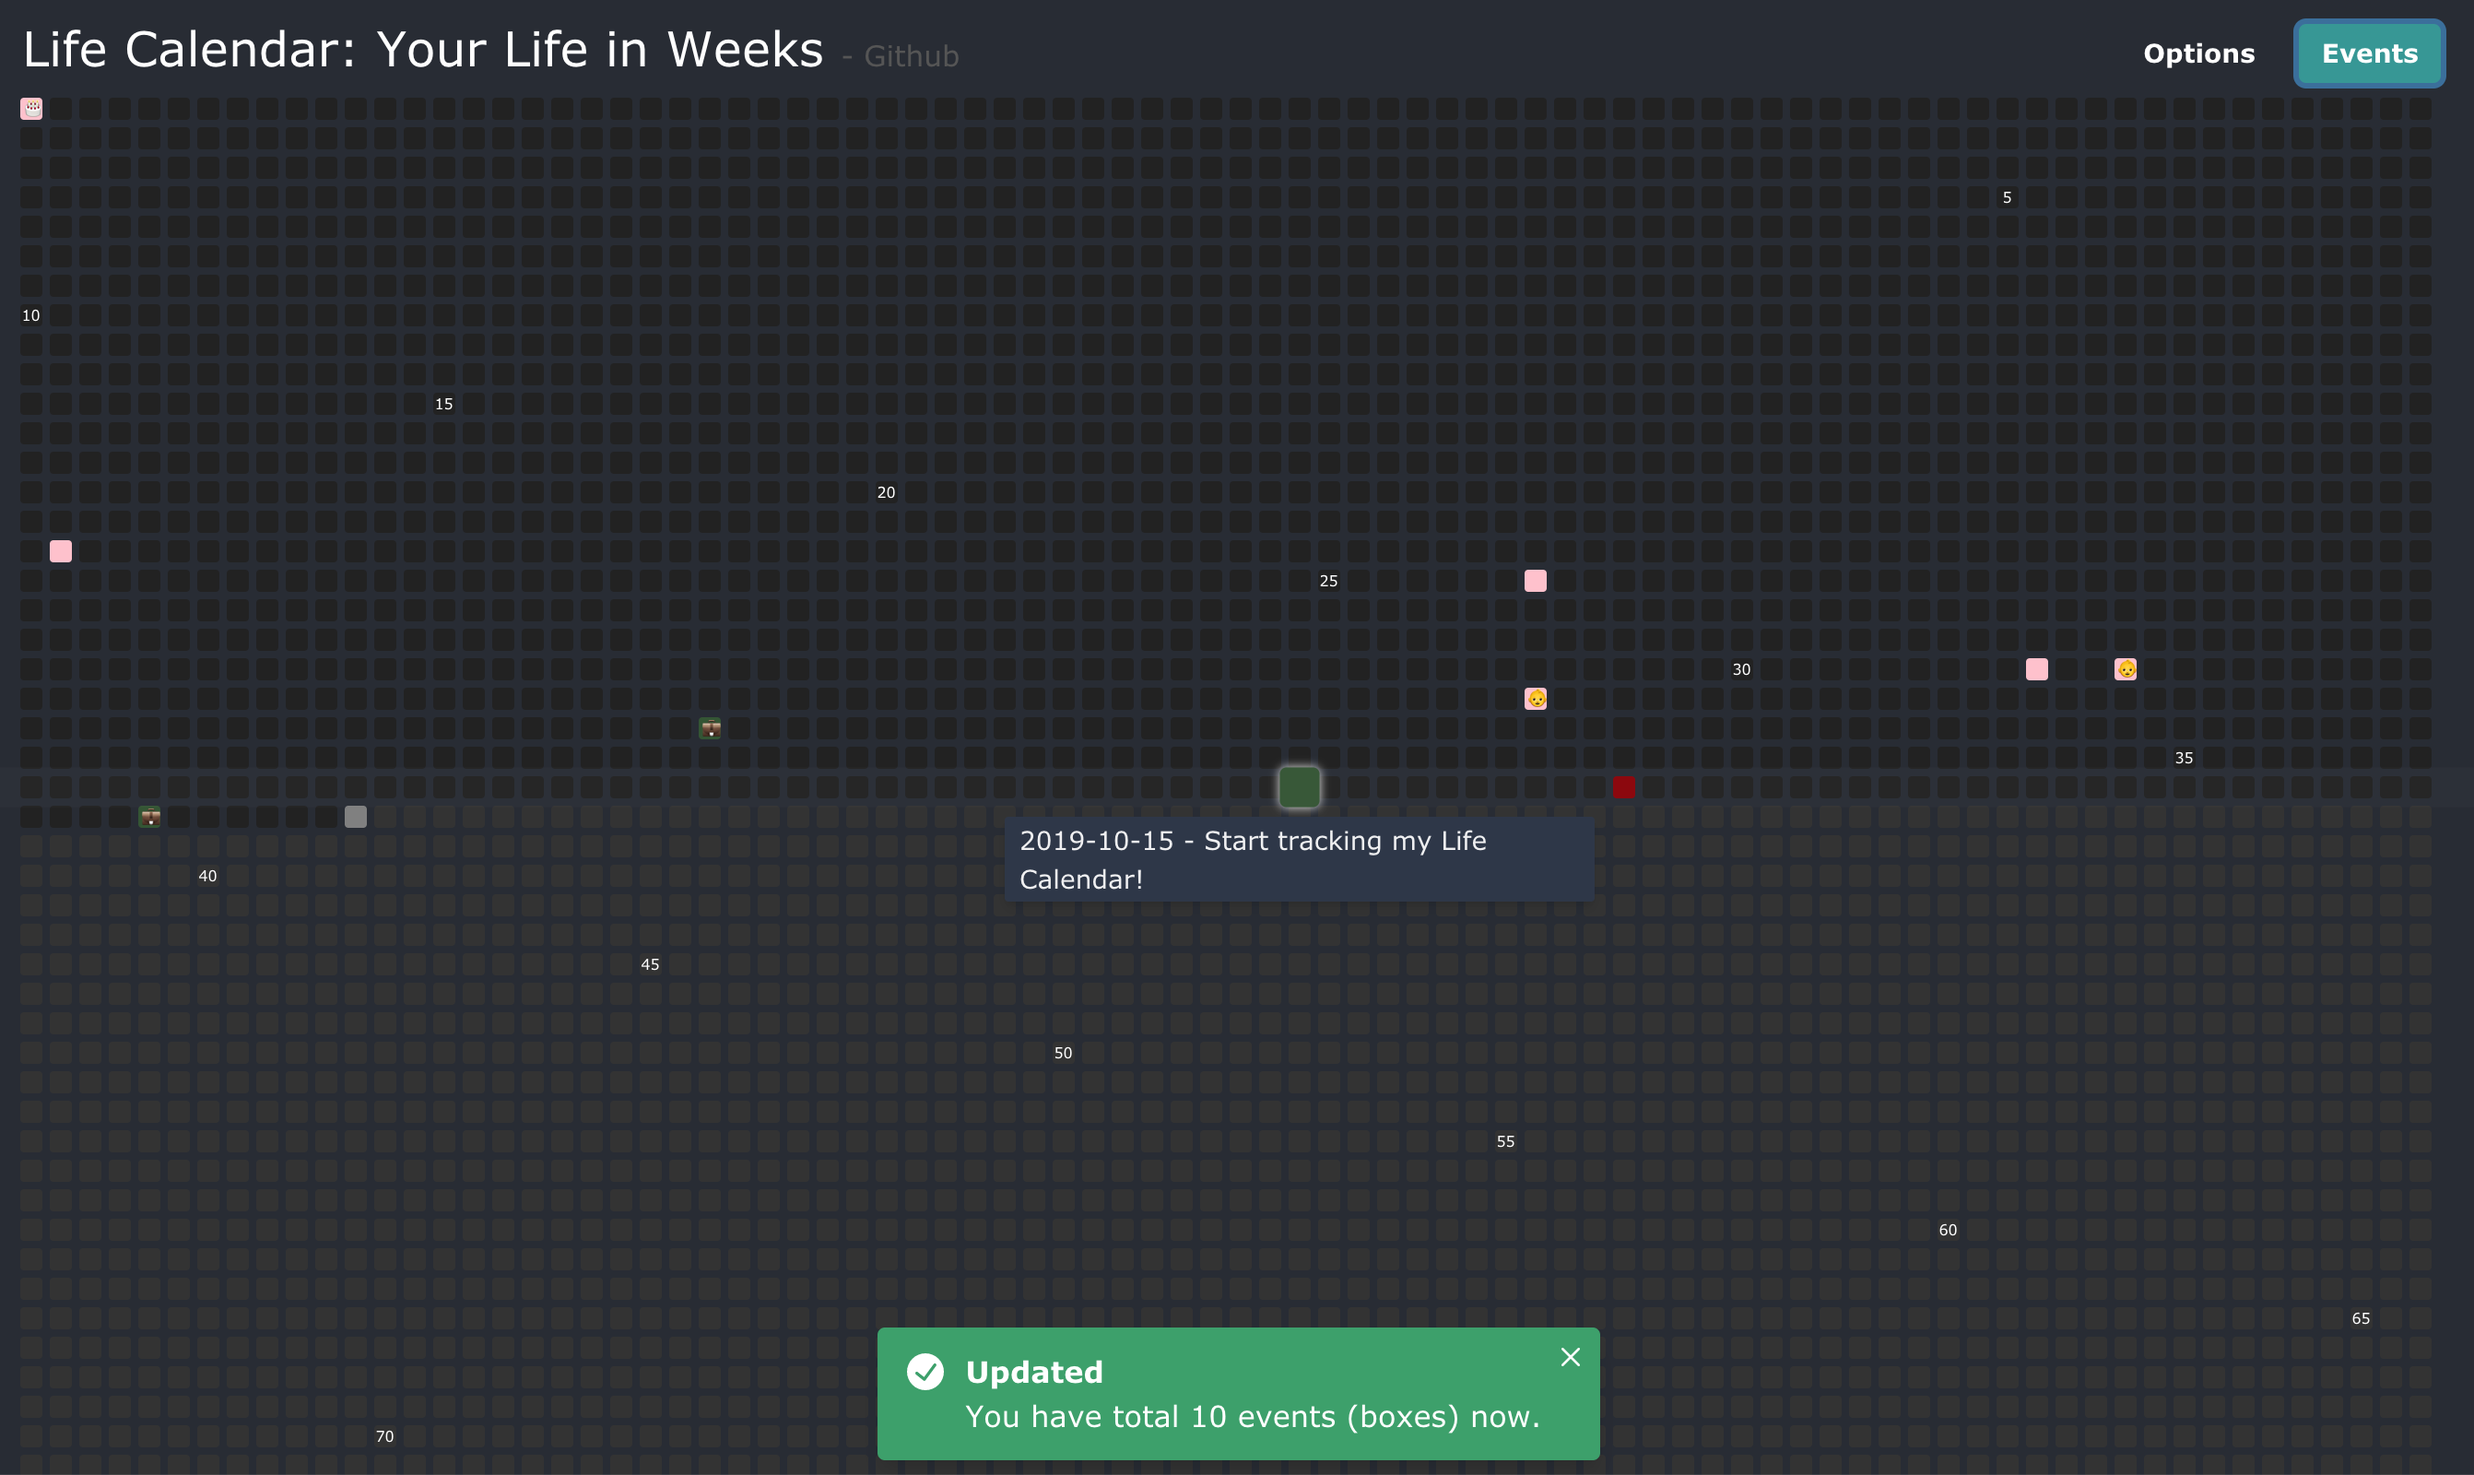
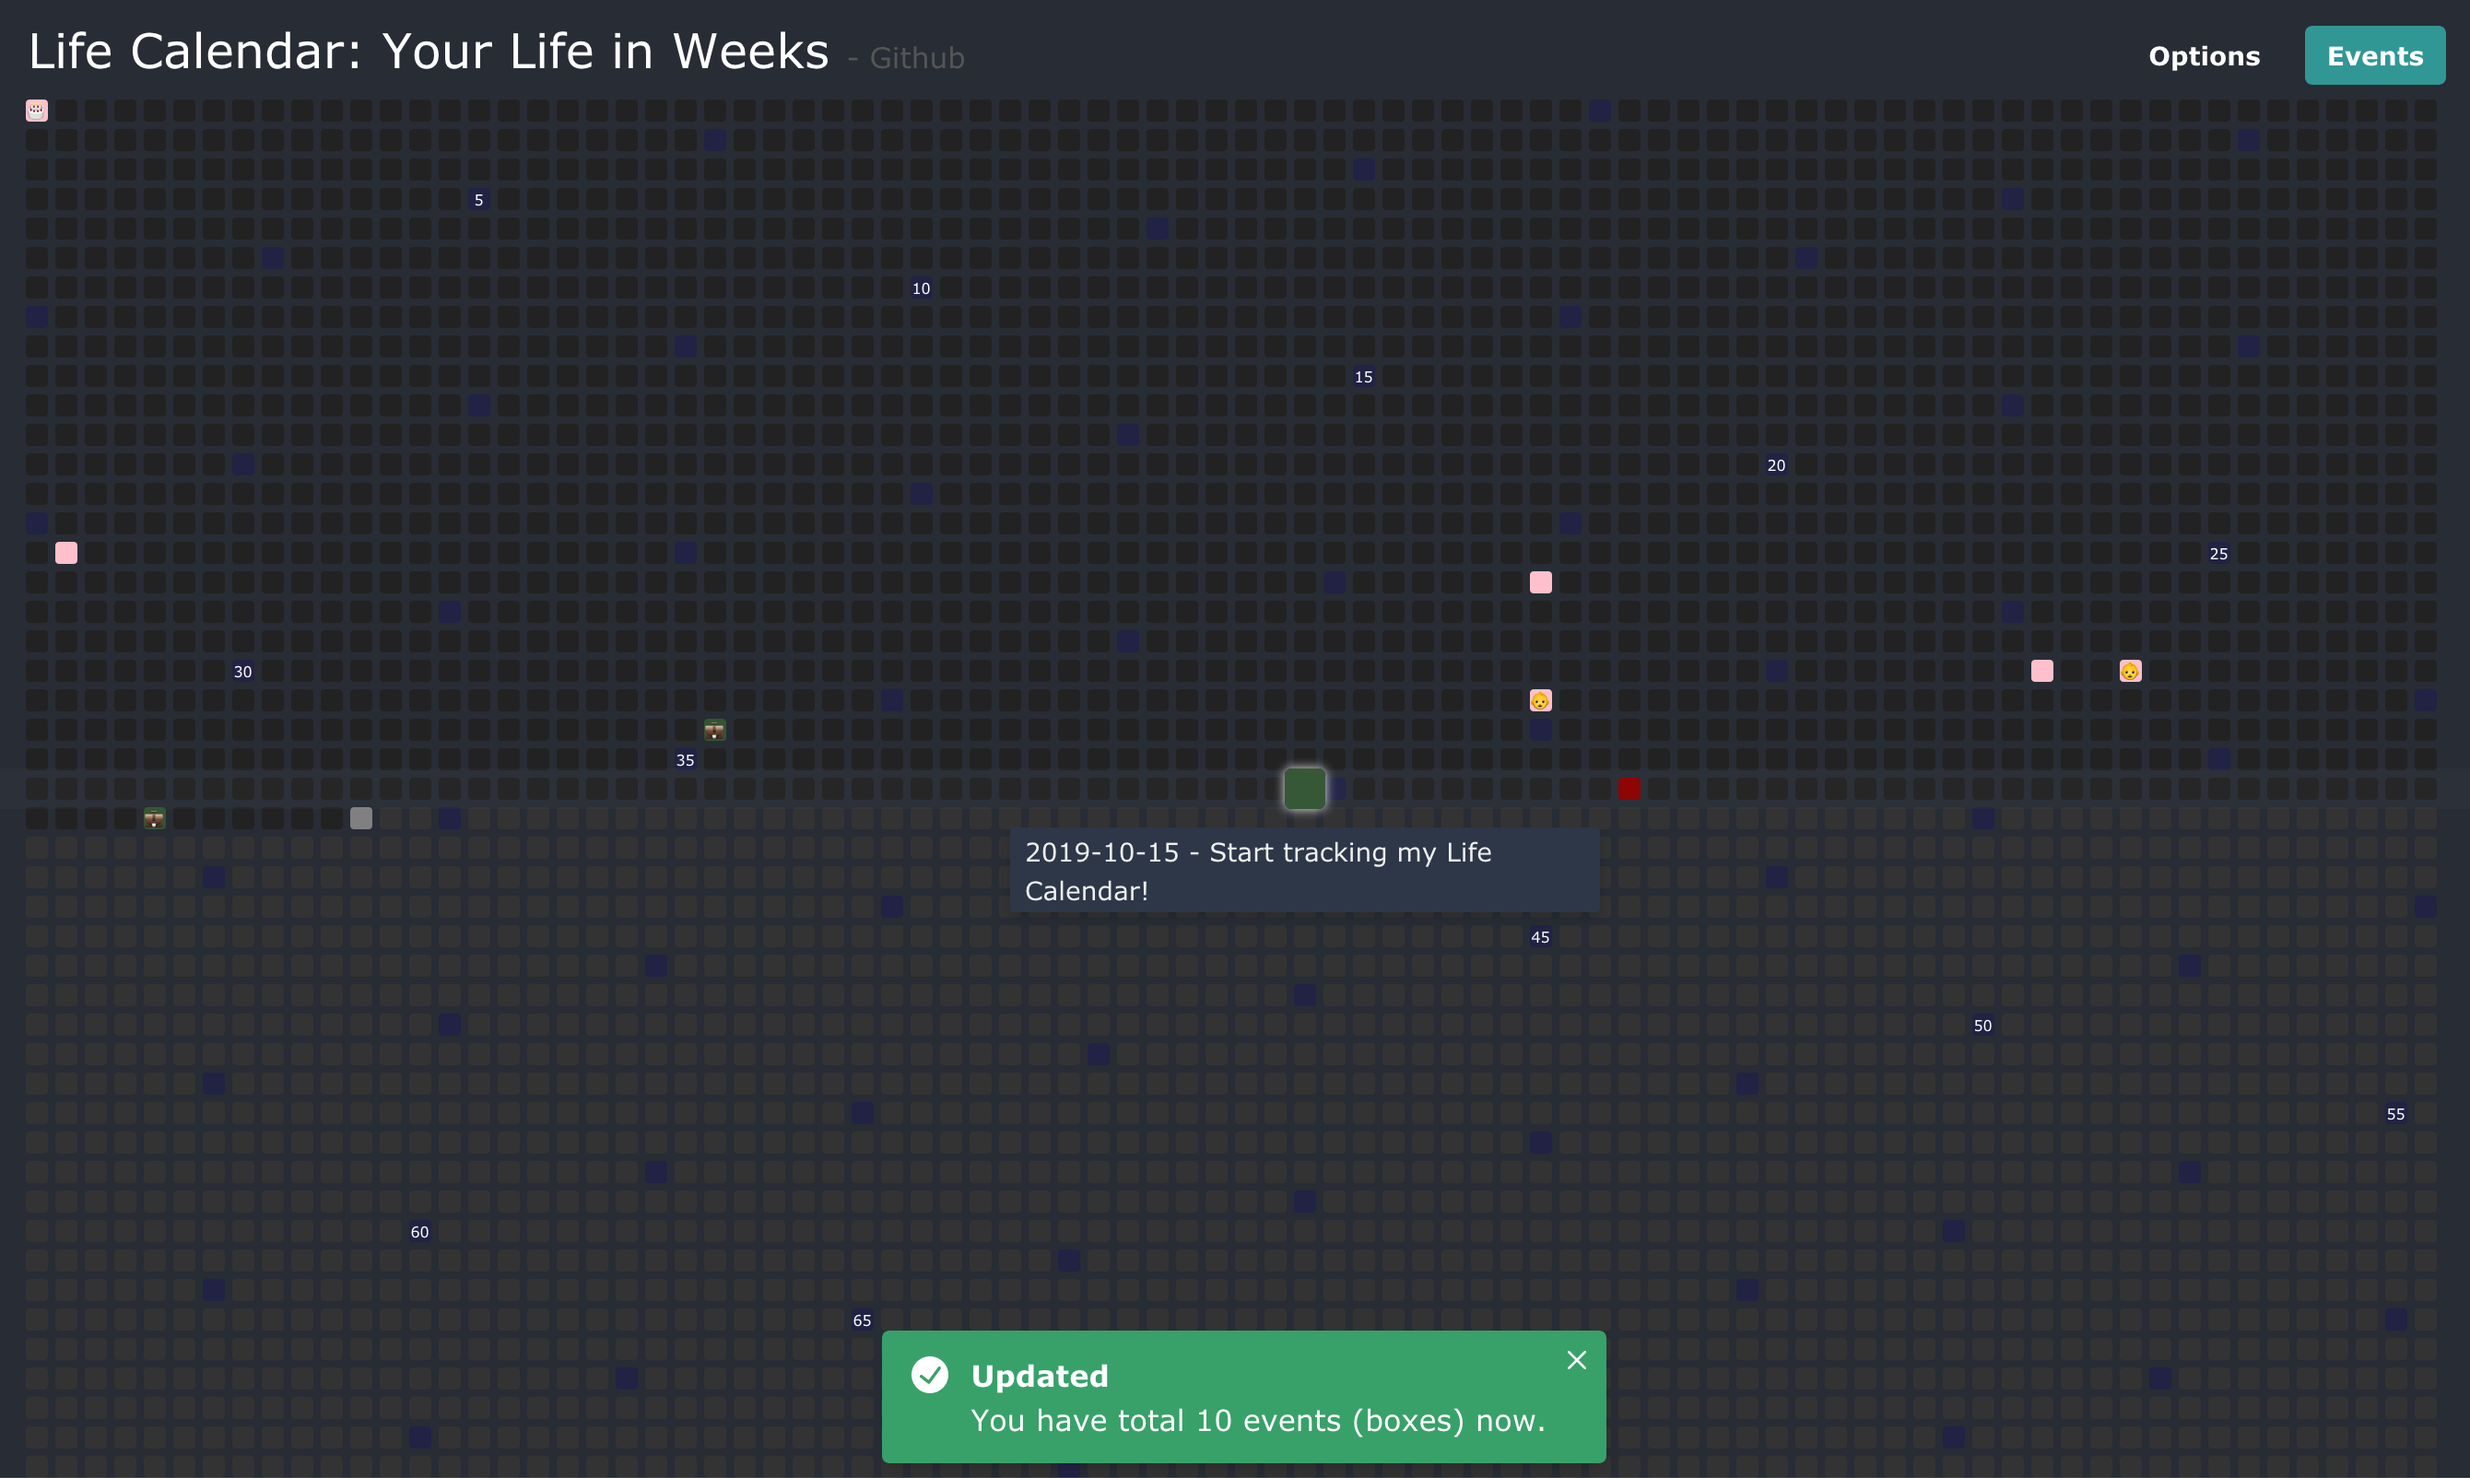
feat: added new layout: one row one year

diff --git a/src/components/WeekTimeline/WeekTimeline.tsx b/src/components/WeekTimeline/WeekTimeline.tsx
@@ -50,8 +50,59 @@ const transformData = (data: any = { events: [] }) => {
   for (let i = 0; i < 90; i += 1) {
     const year = firstYear + i;
     weeks = weeks + (isLeapYear(year) ? 52.28571 : 52.14286);
-    markedWeeks.push(Math.round(weeks)); // TODO: rounding leads to inaccurate box position
+
+    let markedWeek = Math.round(weeks);
+    // adjust for better alignment (because of Math.round and leap years)
+    markedWeek++;
+    if (
+      [
+        4,
+        5,
+        6,
+        11,
+        12,
+        13,
+        18,
+        19,
+        20,
+        25,
+        26,
+        27,
+        32,
+        33,
+        34,
+        39,
+        40,
+        41,
+        46,
+        47,
+        48,
+        53,
+        54,
+        55,
+        60,
+        61,
+        62,
+        67,
+        68,
+        69,
+        74,
+        75,
+        76,
+        81,
+        82,
+        83,
+        88,
+        89,
+        90
+      ].indexOf(i + 1) >= 0
+    ) {
+      markedWeek = markedWeek - 1;
+    }
+    markedWeeks.push(markedWeek); // TODO: rounding leads to inaccurate box position
   }
+  // console.log('markedWeeks', markedWeeks);
+
   return [_data, markedWeeks];
 };
 
@@ -65,76 +116,100 @@ export default function WeekTimeline({ data }: { data: any }) {
   const [_data, markedWeeks] = transformData(data);
 
   const _todayItem = _data && _data.events.length > 0 ? _data.events[_data.events.length - 1] : { _weekNum: 2000 };
-  // console.log('_data', _data);
+  const years = Array.from(Array(90).keys()); // [0, 1, 2, ...] as 90 years
+
+  const renderBoxes = (yearIdx = -1) => {
+    return (
+      <>
+        {dt.map((_, idx) => {
+          if (yearIdx >= 0) {
+            if (idx < yearIdx * 52.143 || idx > yearIdx * 52.143 + 52.143) {
+              return null;
+            }
+          }
+          let bgColor = '#333'; // default
+
+          if (idx < _todayItem._weekNum) {
+            bgColor = '#222'; // passed weeks
+          }
+
+          let yearTooltip = '';
+          const markedWeeksIdx = markedWeeks.indexOf(idx);
+
+          if (state.options.highlightYears) {
+            // bgColor = item % 261 === 0 ? '#335' : bgColor; // highlight every year
+            bgColor = markedWeeksIdx >= 0 ? '#224' : bgColor;
+            yearTooltip = markedWeeksIdx >= 0 ? `${markedWeeksIdx + 1} years old` : yearTooltip;
+          }
+
+          const obj: any = _data.events.find((d: any) => d._weekNum === idx);
+          if (obj) {
+            bgColor = 'gray';
+
+            if (obj.type === -3) {
+              bgColor = 'darkred';
+            } else if (obj.type === -2 || obj.type === -1) {
+              bgColor = 'darkred';
+            } else if (obj.type === 1 || obj.type === 2) {
+              bgColor = '#353';
+            } else if (obj.type === 3) {
+              bgColor = 'pink';
+            }
+          }
+          let boxContent = '';
+          if (state.options.showEveryYears) {
+            // 52.143 * 5 ~ 260.7 ~ 261
+            // boxContent = '' + (item % 261 === 0 ? (item / 261) * 5 : ''); // show year number ever N years
+            boxContent = '' + (markedWeeksIdx > 1 && (markedWeeksIdx + 1) % 5 === 0 ? markedWeeksIdx + 1 : '');
+
+            yearTooltip = boxContent ? `${boxContent} years old` : yearTooltip;
+          }
+
+          // boxContent = obj ? obj.title : boxContent; // item % 52 === 0 ? item / 52 : ''
+          // if first character is Emoji, show it in the box:
+          boxContent = obj && obj.title && obj.title.charCodeAt(0) > 255 ? [...obj.title][0] : boxContent;
+
+          let boxStartTime = +addWeeks(_data.events[0]._date, idx);
+          const boxEl = (
+            <Box
+              key={`box_${yearIdx}_${idx}`}
+              className={css.box}
+              onClick={() => setEventModalOpen(boxStartTime)}
+              rounded={2}
+              w={3}
+              h={3}
+              style={{ backgroundColor: bgColor, fontSize: 8, cursor: 'default' }}
+            >
+              {boxContent}
+            </Box>
+          );
+
+          if ((obj && obj.title) || yearTooltip) {
+            const tooltipLabel = obj && obj.title ? `${obj.date} - ${obj.title}` : yearTooltip;
+            return (
+              <Tooltip key={`tt_${idx}`} label={tooltipLabel}>
+                {boxEl}
+              </Tooltip>
+            );
+          } else {
+            return boxEl;
+          }
+        })}
+      </>
+    );
+  };
   return (
     <Flex key={mainKey} gridGap={1} width="95vw" flexWrap="wrap">
-      {dt.map((item, idx) => {
-        let bgColor = '#333'; // default
+      {state.options.oneRowOneYear === true
+        ? years.map((_, yearIdx) => {
+            return (
+              <Flex key={`flex_${yearIdx}`} gridGap={1} width="95vw" flexWrap="wrap">
+                {renderBoxes(yearIdx)}
+              </Flex>
+            );
+          })
+        : renderBoxes()}
 
-        if (idx < _todayItem._weekNum) {
-          bgColor = '#222'; // passed weeks
-        }
-
-        let yearTooltip = '';
-        const markedWeeksIdx = markedWeeks.indexOf(idx);
-        if (state.options.highlightYears) {
-          // bgColor = item % 261 === 0 ? '#335' : bgColor; // highlight every year
-          bgColor = markedWeeksIdx >= 0 ? '#335' : bgColor;
-          yearTooltip = markedWeeksIdx >= 0 ? `${markedWeeksIdx + 1} years old` : yearTooltip;
-        }
-
-        const obj: any = _data.events.find((d: any) => d._weekNum === idx);
-        if (obj) {
-          bgColor = 'gray';
-
-          if (obj.type === -3) {
-            bgColor = 'darkred';
-          } else if (obj.type === -2 || obj.type === -1) {
-            bgColor = 'darkred';
-          } else if (obj.type === 1 || obj.type === 2) {
-            bgColor = '#353';
-          } else if (obj.type === 3) {
-            bgColor = 'pink';
-          }
-        }
-        let boxContent = '';
-        if (state.options.showEveryYears) {
-          // 52.143 * 5 ~ 260.7 ~ 261
-          // boxContent = '' + (item % 261 === 0 ? (item / 261) * 5 : ''); // show year number ever N years
-          boxContent = '' + (markedWeeksIdx && markedWeeksIdx % 5 === 0 ? markedWeeksIdx : '');
-          yearTooltip = boxContent ? `${boxContent} years old` : yearTooltip;
-        }
-
-        // boxContent = obj ? obj.title : boxContent; // item % 52 === 0 ? item / 52 : ''
-        // if first character is Emoji, show it in the box:
-        boxContent = obj && obj.title && obj.title.charCodeAt(0) > 255 ? [...obj.title][0] : boxContent;
-
-        let boxStartTime = +addWeeks(_data.events[0]._date, idx);
-        const boxEl = (
-          <Box
-            key={`box_${idx}`}
-            className={css.box}
-            onClick={() => setEventModalOpen(boxStartTime)}
-            rounded={2}
-            w={3}
-            h={3}
-            style={{ backgroundColor: bgColor, fontSize: 8, cursor: 'default' }}
-          >
-            {boxContent}
-          </Box>
-        );
-
-        if ((obj && obj.title) || yearTooltip) {
-          const tooltipLabel = obj && obj.title ? `${obj.date} - ${obj.title}` : yearTooltip;
-          return (
-            <Tooltip key={`tt_${idx}`} label={tooltipLabel}>
-              {boxEl}
-            </Tooltip>
-          );
-        } else {
-          return boxEl;
-        }
-      })}
       {eventModalOpen >= 0 && (
         <EventModal
           startTime={eventModalOpen}

diff --git a/src/components/OptionModal/OptionModal.tsx b/src/components/OptionModal/OptionModal.tsx
@@ -54,6 +54,16 @@ export default function OptionModal() {
             >
               Show year numbers
             </Checkbox>
+            <Checkbox
+              defaultIsChecked={!!state.options.oneRowOneYear}
+              onChange={(e) => {
+                const _state = { ...state };
+                _state.options = { ..._state.options, oneRowOneYear: e.target.checked };
+                setState(_state);
+              }}
+            >
+              One row is one year
+            </Checkbox>
           </Box>
         </PopoverBody>
         <PopoverFooter border="0" d="flex" alignItems="center" justifyContent="space-between" pb={4}></PopoverFooter>

diff --git a/src/utils/AppState.ts b/src/utils/AppState.ts
@@ -5,7 +5,8 @@ export const appState = atom({
   default: {
     options: {
       highlightYears: false,
-      showEveryYears: 5
+      showEveryYears: 5,
+      oneRowOneYear: false
     },
     events: []
   }

diff --git a/TODO.md b/TODO.md
@@ -16,6 +16,7 @@ Roadmap / Todo List
 
 ### Done ✓
 
+- [x] new layout: one row one year  
 - [x] click on a box to add  
 - [x] use localStorage  
 - [x] show Emoji icon  
